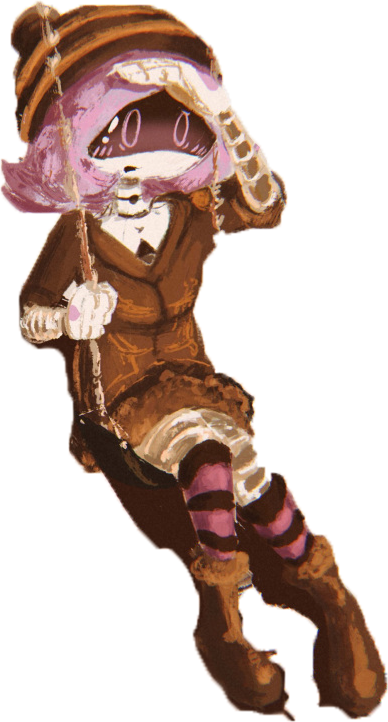
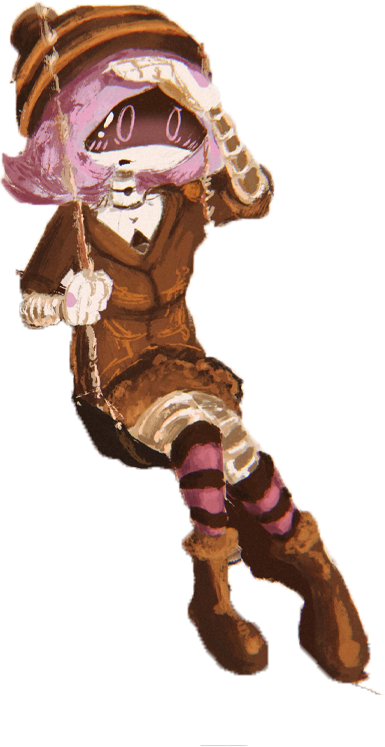
some uzishadow upgrades

diff --git a/src/lib/canvas/uzishadow.ts b/src/lib/canvas/uzishadow.ts
@@ -63,16 +63,30 @@ async function cropImageToBounds(imageBuffer: Buffer) {
     return c2.toBuffer();
 }
 
-const PERSPECTIVE = [0, 262, 291, 150, 292, 525, 598, 408];
+const PERSP_OFFSET = [-58, 0];
+//const PERSPECTIVE = [0, 262, 291, 150, 292, 525, 598, 408];
+const PERSPECTIVE = [
+    0 + PERSP_OFFSET[0],
+    453 + PERSP_OFFSET[1],
+    233 + PERSP_OFFSET[0],
+    328 + PERSP_OFFSET[1],
+    417 + PERSP_OFFSET[0],
+    909 + PERSP_OFFSET[1],
+    678 + PERSP_OFFSET[0],
+    679 + PERSP_OFFSET[1],
+];
 
 export default async function uziShadow(buf: Buffer) {
-    let background = await loadImage("images/uzishadow/noshadow.png");
+    let background = await loadImage("images/uzishadow/noshadow2.png");
     let uzi = await loadImage("images/uzishadow/uzi.png");
-    let backgroundRemoved = await removeBackground(buf);
+    let backgroundRemoved = buf;
+    if (!(await imageHasTransparency(backgroundRemoved))) {
+        backgroundRemoved = await removeBackground(buf);
+    }
     let cropped = await cropImageToBounds(backgroundRemoved);
     const [w, h] = [background.width, background.height];
     let perspectiveWarp = await ffmpegBuffer(
-        `-i $BUF0 -vf scale=${w}:${h},perspective=${PERSPECTIVE.join(
+        `-i $BUF0 -vf hflip,scale=${w}:${h},perspective=${PERSPECTIVE.join(
             ":"
         )}:sense=1 $OUT`,
         [[cropped, "png"]]
@@ -80,7 +94,7 @@ export default async function uziShadow(buf: Buffer) {
     let shadowTexture = await ffmpegBuffer(
         `-i $BUF0 -i ${file(
             "uzishadow/shadowtexture.png"
-        )} -filter_complex "[0:v]alphaextract[alpha];[1:v][alpha]alphamerge[out]" -map "[out]" $OUT`,
+        )} -filter_complex "[0:v]alphaextract,gblur=sigma=2[alpha];[1:v][alpha]alphamerge[out]" -map "[out]" $OUT`,
         [[perspectiveWarp, "png"]]
     );
     let shadowTextureImage = await loadImage(shadowTexture);
